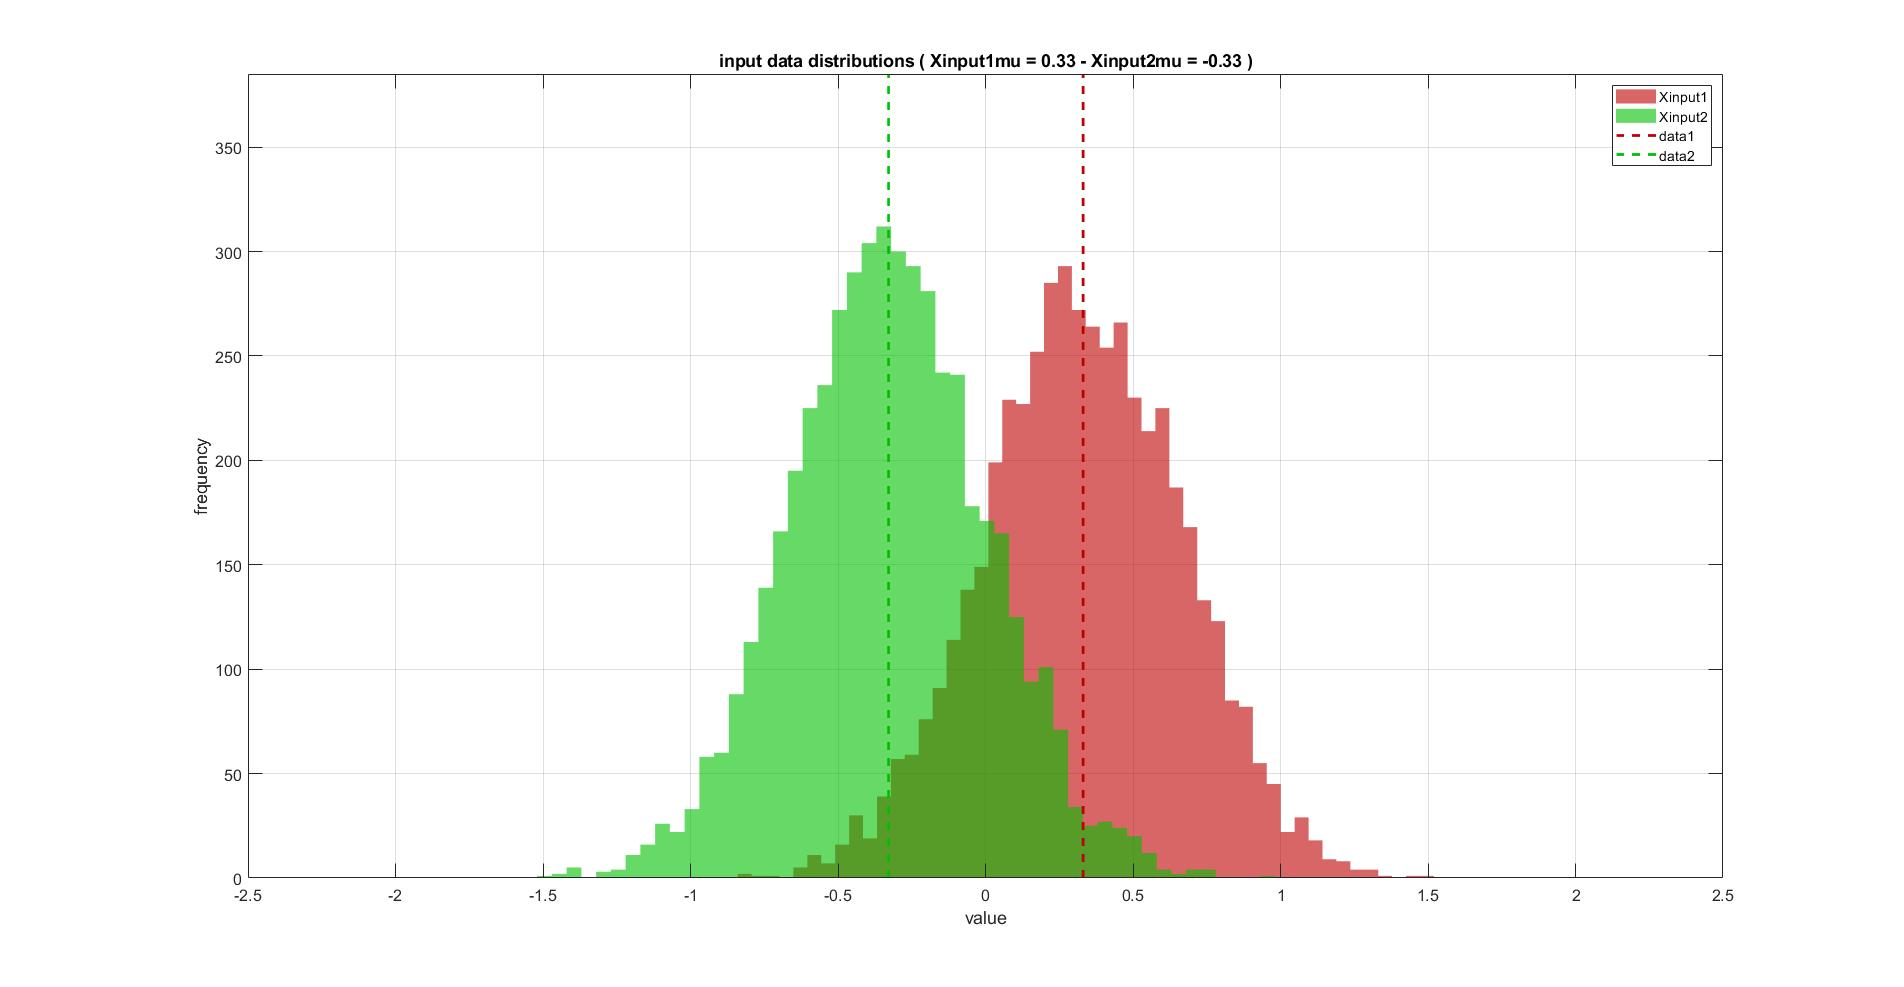
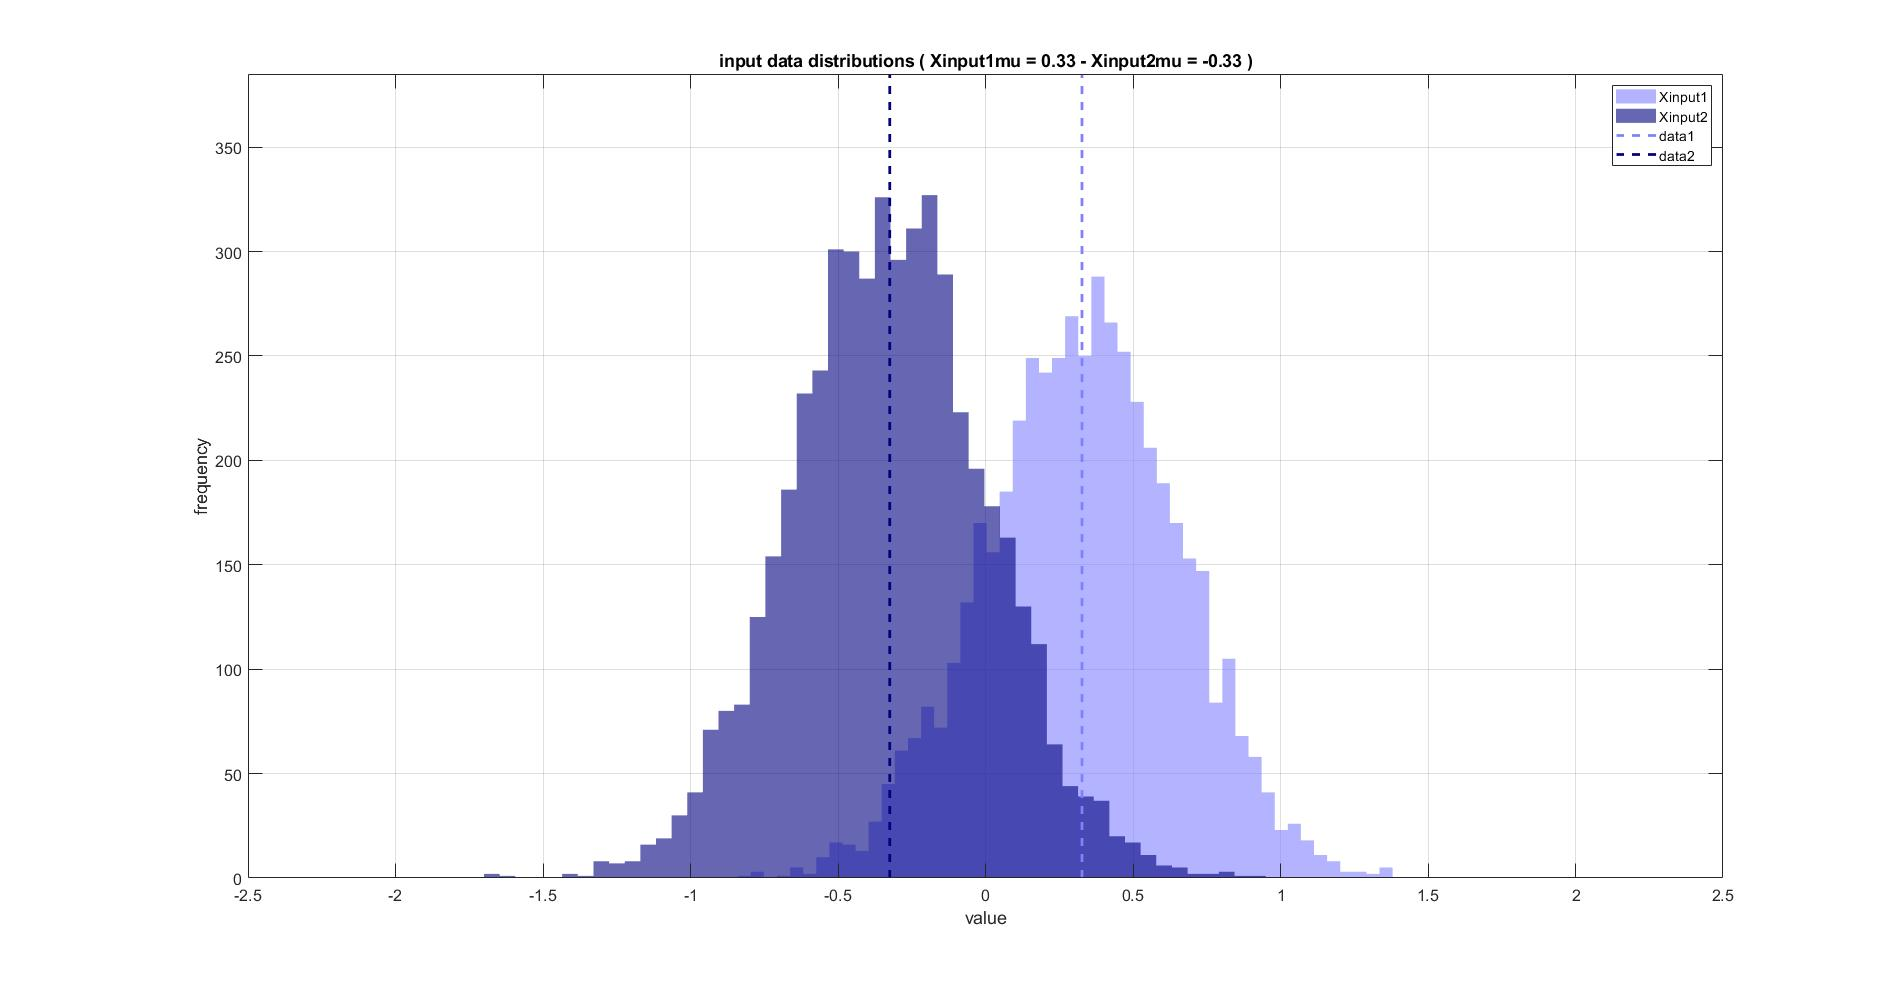
updated style of functions

Changed region(s): [[0.2789, 0.1824, 0.7437, 0.9119], [0.8367, 0.0912, 0.8676, 0.152]]

diff --git a/test_Bootstrap_t.m b/test_Bootstrap_t.m
@@ -1,16 +1,17 @@
 % \\\\\\\\\\\\\\\\\\\\\\ test_Bootstrap_t \\\\\\\\\\\\\\\\\\\\\\
-
-% TEST BOOTSTRAP-t Test the accompanying code providing a flexible parallel
+%
+% Test the accompanying code providing a flexible parallel
 % implementation of the Bootstrap-t procedure to compute confidence intervals 
 % (CI) following the procedure described by the book:
+%
 % "Tibshirani, R. J., & Efron, B. (1993).
 % An introduction to the bootstrap.
-% Monographs on statistics and applied probability, 57(1)"
+% Monographs on statistics and applied
+% probability, 57(1)"
 %
-% AUTHOR: Giulio Matteucci
-% DATE: 21/04/2023
+% Giulio Matteucci 2023
 
-%% create test dataset to test Bootstrap-t functions
+%% create test dataset to test Bootstrap-t functions ----------------------
 
 % generate normal data
 Npoints=5000;
@@ -35,10 +36,13 @@ mean_diff_output = get_mean_difference_Bootstrap_t(InputData);
 
 % plot the histograms of input data
 f1=figure('units','normalized','outerposition',[0 0 1 1]);
+% set colors
+color1=[0.5, 0.5, 1];
+color2=[0, 0, 0.5];
 % subplot(2, 1, 1);
-histogram(InputData{1},50,'EdgeAlpha',0,'FaceColor',[1,0,0].*0.75);
+histogram(InputData{1},50,'EdgeAlpha',0,'FaceColor',color1);
 hold on;
-histogram(InputData{3},50,'EdgeAlpha',0,'FaceColor',[0,1,0].*0.75);
+histogram(InputData{3},50,'EdgeAlpha',0,'FaceColor',color2);
 xlabel('value');
 ylabel('frequency');
 title(['input data distributions ( Xinput1mu = ',num2str(Xinput1_mu),' - Xinput2mu = ',num2str(Xinput2_mu),' )']);
@@ -46,8 +50,8 @@ legend('Xinput1', 'Xinput2');
 % plot the mean difference as a vertical line
 y_limits = ylim;
 y_limits = [y_limits(1),1.1*y_limits(2)];
-line([mean_diff_output{2}, mean_diff_output{2}], y_limits, 'Color', [1,0,0].*0.75, 'LineWidth', 2, 'LineStyle', '--');
-line([mean_diff_output{3}, mean_diff_output{3}], y_limits, 'Color', [0,1,0].*0.75, 'LineWidth', 2, 'LineStyle', '--');
+line([mean_diff_output{2}, mean_diff_output{2}], y_limits, 'Color', color1, 'LineWidth', 2, 'LineStyle', '--');
+line([mean_diff_output{3}, mean_diff_output{3}], y_limits, 'Color', color2, 'LineWidth', 2, 'LineStyle', '--');
 hold off;
 % display the mean difference in the command window
 disp(['Mean Difference: ', num2str(mean_diff_output{1})]);
@@ -56,7 +60,7 @@ ylim(y_limits);
 grid on;
 set(gca,'fontsize',12)
 
-%% perform Bootstrap-t results
+%% perform Bootstrap-t results --------------------------------------------
 
 % initialize output structures
 orig_estimate=cell(1,3); %#ok<*PREALL>
@@ -96,7 +100,7 @@ tic2=tic;
 % maesure elapsed time (eta)
 toc2=toc(tic2);
 
-%% inspect Bootstrap-t results
+%% inspect Bootstrap-t results --------------------------------------------
 
 % set output names
 outputnames={'mean difference','mean 1','mean 2'};
@@ -145,8 +149,19 @@ grid on;
 legend(pl,'ground truth');
 set(gca,'fontsize',12)
 
+% set tolerance for test
+tolerance = 1e-3;
+% output results of test
+if and( abs(orig_estimate_lCI{i}-new_estimate_lCI{i}) > tolerance ,  abs(orig_estimate_uCI{i}-new_estimate_uCI{i}) > tolerance )
+    % display test result
+    fprintf('Test failed - confidence intervals do not coincide within set tolerance\n');
+else
+    % display test result
+    fprintf('Test passed - confidence intervals coincide within set tolerance\n');
+end
+
 % --------------------------------------------------------------------
-% Validation (performed on MATLAB R2019b):
+% validation (performed on MATLAB R2019b):
 % Example results of a test run comparing the CI from an unpaired ttest with the
 % bootstrap-estimated CI (Npoints=5000, B=10000, N=100, sig=0.33, mu=+/-0.33)
 % with "get_boostrap_parallel_fast_t_ci_BN2p" function:
@@ -156,12 +171,4 @@ set(gca,'fontsize',12)
 % Bootstrap-t estimate: 0.66774 - true value = 0.66000
 % Bootstrap-t lCI: 0.65496 - ttest2 lCI: 0.65495
 % Bootstrap-t uCI: 0.68065 - ttest2 uCI: 0.68053
-% --------------------------------------------------------------------
-% Disclaimer:
-% This software is provided "as-is" without any warranty, express or implied.
-% The author(s) and/or contributors shall not be held liable for any damages,
-% including but not limited to, direct, indirect, incidental, consequential,
-% or other losses, resulting from the use of, or inability to use, this software.
-% By using this software, you acknowledge that you understand and agree to this disclaimer.
-% Use at your own risk.
 % --------------------------------------------------------------------

diff --git a/get_Bootstrap_t_ci_parallel.m b/get_Bootstrap_t_ci_parallel.m
@@ -1,10 +1,11 @@
 function [estimate,estimate_lCI,estimate_uCI,estimate_lSE,estimate_uSE] =...
     get_Bootstrap_t_ci_parallel(Bfunc,Binp,Bdim,Brdim,confidence,B,N,seed,printeveryn)
-
-%GET_BOOTSTRAP_T_CI_PARALLEL Perform Bootstrap-t (parallel) for the estimation of confidence intervals
+% [estimate,estimate_lCI,estimate_uCI,estimate_lSE,estimate_uSE] =...
+%     get_Bootstrap_t_ci_parallel(Bfunc,Binp,Bdim,Brdim,confidence,B,N,seed,printeveryn)
+% perform Bootstrap-t (parallel) for the estimation of confidence intervals
 % and standard error intervals of a summary statistic (any custom function Bfunc).
 %
-% INPUTS:
+% inputs:
 % Bfunc: function handle of summary statistic (any custom function Bfunc)
 % Binp: cell array, inputs for the Bfunc
 % Bdim: vector, dimensions to resample for each input in Binp
@@ -15,14 +16,14 @@ function [estimate,estimate_lCI,estimate_uCI,estimate_lSE,estimate_uSE] =...
 % seed: integer, seed for random number generator
 % printeveryn: integer, every how any bootstrap repetitions to print advancement
 %
-% OUTPUTS:
+% outputs:
 % estimate: cell array, point estimates of the summary statistic
 % estimate_lCI: cell array, lower bound of the confidence interval
 % estimate_uCI: cell array, upper bound of the confidence interval
 % estimate_lSE: cell array, lower bound of the standard error interval
 % estimate_uSE: cell array, upper bound of the standard error interval
 %
-% EXAMPLE:
+% example:
 % confidence = 0.95;
 % B = 2500;
 % N = 25;
@@ -33,8 +34,7 @@ function [estimate,estimate_lCI,estimate_uCI,estimate_lSE,estimate_uSE] =...
 % [estimate, estimate_lCI, estimate_uCI, estimate_lSE, estimate_uSE] =...
 % get_Bootstrap_t_ci_parallel(Bfunc,Binp,Bdim,Brdim,confidence,B,N,seed);
 %
-% AUTHOR: Giulio Matteucci
-% DATE: 21/04/2023
+% Giulio Matteucci 2023
 
 %% perform Bootstrap-t (parallel)
 
@@ -167,7 +167,7 @@ parfor bo_idx=1:B
     % compute bootstrap Z
     for output_idx=1:O
         Znum=local_Bout{output_idx}-local_Bout_bo{output_idx};
-        catmat = cell2matlastdim(Bout_bi(output_idx,:)');
+        catmat = cell_to_mat_last_dim(Bout_bi(output_idx,:)');
         Zdenom=nanstd(catmat,[],ndims(catmat));
         BZvals{output_idx,bo_idx}=(Znum)./(Zdenom+eps);
     end
@@ -182,8 +182,8 @@ end
 
 for output_idx=1:O
     % get confidence interval
-    catmat1 = cell2matlastdim(BZvals(output_idx,:)');
-    catmat2 = cell2matlastdim(Bout_bo(output_idx,:)');
+    catmat1 = cell_to_mat_last_dim(BZvals(output_idx,:)');
+    catmat2 = cell_to_mat_last_dim(Bout_bo(output_idx,:)');
     estimate_lCI{output_idx}=Bout{output_idx}-quantile(catmat1,1-(1-confidence)/2,ndims(catmat1)).*nanstd(catmat2,[],ndims(catmat2));
     estimate_uCI{output_idx}=Bout{output_idx}-quantile(catmat1,(1-confidence)/2,ndims(catmat1)).*nanstd(catmat2,[],ndims(catmat2));
     % get standard error interval

diff --git a/get_mean_difference_Bootstrap_t.m b/get_mean_difference_Bootstrap_t.m
@@ -1,52 +1,32 @@
 function output = get_mean_difference_Bootstrap_t(input_data)
+% output = get_mean_difference_Bootstrap_t(input_data)
+% custom wrapper function for computing the mean difference between two datasets
+% using a provided bootstrap-t implementation.
+%   input_data : cell array containing input data matrices
+%       input_data{1} - Xinput1
+%       input_data{2} - Yinput1
+%       input_data{3} - Xinput2
+%       input_data{4} - Yinput2
+%   output : cell array containing computed results matrices
+%       output{1} - mean difference between input_data{1} and input_data{3}
+%       output{2} - mean of input_data{1}
+%       output{3} - mean of input_data{3}
+%
+% Giulio Matteucci 2023
 
-%GET_MEAN_DIFFERENCE_BOOTSTRAP_T Custom wrapper function for computing the
-% mean difference between two datasets using the provided bootstrap-t
-% implementation (get_Bootstrap_t_ci_serial).
-%
-% INPUTS:
-% input_data: cell array, containing the input data matrices
-% input_data{1} - Xinput1
-% input_data{2} - Yinput1
-% input_data{3} - Xinput2
-% input_data{4} - Yinput2
-% Note: other elements of input_data are not used in this function, they are here 
-% just to illustrate the handling of extra inputs by "get_Bootstrap_t_ci" functions
-%
-% OUTPUTS:
-% output: cell array, containing the computed results matrices
-% output{1} - mean difference between input_data{1} and input_data{3}
-% output{2} - mean of input_data{1}
-% output{3} - mean of input_data{3}
-%
-% USAGE:
-% To use this function with the provided bootstrap-t implementation
-% (get_Bootstrap_t_ci_serial or get_Bootstrap_t_ci_parallel), pass an handle 
-% to it to the bustrap function, e.g. Bfunc = @get_mean_difference_Bootstrap_t
-% In order to use the code with your own custom function you can replace the outputs
-% with any other calculation over the inputs (then just make sure to
-% perform the bootstrap resemplings on the correct dimension of each input
-% matrix!)
-%
-% AUTHOR: [Your name]
-% DATE: [Current date]
+% compute the mean of input data 1
+mean1 = mean(input_data{1});
+% compute the mean of input data 2
+mean2 = mean(input_data{3});
+% compute the mean difference
+if input_data{6}
+    mean_diff = mean1 - mean2;
+else
+    mean_diff = abs(mean1 - mean2);
+end
+% store results
+output{1} = mean_diff;
+output{2} = mean1;
+output{3} = mean2;
 
-    % compute the mean of input data 1 - output 2
-    mean1 = mean(input_data{1});
-
-    % compute the mean of input data 2 - output 3
-    mean2 = mean(input_data{3});
-    
-    % compute the mean difference - output 1
-    if input_data{6}
-        mean_diff = mean1 - mean2;
-    else
-        mean_diff = abs( mean1 - mean2 );
-    end
-    
-    % store results (output 1, 2, 3)
-    output{1}=mean_diff;
-    output{2}=mean1;
-    output{3}=mean2;
-    
 end

diff --git a/get_Bootstrap_t_ci_serial.m b/get_Bootstrap_t_ci_serial.m
@@ -1,10 +1,11 @@
 function [estimate,estimate_lCI,estimate_uCI,estimate_lSE,estimate_uSE] =...
     get_Bootstrap_t_ci_serial(Bfunc,Binp,Bdim,Brdim,confidence,B,N,seed,printeveryn)
-
-%GET_BOOTSTRAP_T_CI_SERIAL Perform Bootstrap-t (serial) for the estimation of confidence intervals
+% [estimate,estimate_lCI,estimate_uCI,estimate_lSE,estimate_uSE] =...
+%     get_Bootstrap_t_ci_serial(Bfunc,Binp,Bdim,Brdim,confidence,B,N,seed,printeveryn)
+% perform Bootstrap-t (serial) for the estimation of confidence intervals
 % and standard error intervals of a summary statistic (any custom function Bfunc).
 %
-% INPUTS:
+% inputs:
 % Bfunc: function handle of summary statistic (any custom function Bfunc)
 % Binp: cell array, inputs for the Bfunc
 % Bdim: vector, dimensions to resample for each input in Binp
@@ -15,14 +16,14 @@ function [estimate,estimate_lCI,estimate_uCI,estimate_lSE,estimate_uSE] =...
 % seed: integer, seed for random number generator
 % printeveryn: integer, every how any bootstrap repetitions to print advancement
 %
-% OUTPUTS:
+% outputs:
 % estimate: cell array, point estimates of the summary statistic
 % estimate_lCI: cell array, lower bound of the confidence interval
 % estimate_uCI: cell array, upper bound of the confidence interval
 % estimate_lSE: cell array, lower bound of the standard error interval
 % estimate_uSE: cell array, upper bound of the standard error interval
 %
-% EXAMPLE:
+% example:
 % confidence = 0.95;
 % B = 2500;
 % N = 25;
@@ -33,8 +34,7 @@ function [estimate,estimate_lCI,estimate_uCI,estimate_lSE,estimate_uSE] =...
 % [estimate, estimate_lCI, estimate_uCI, estimate_lSE, estimate_uSE] =...
 % get_Bootstrap_t_ci_serial(Bfunc,Binp,Bdim,Brdim,confidence,B,N,seed);
 %
-% AUTHOR: Giulio Matteucci
-% DATE: 21/04/2023
+% Giulio Matteucci 2023
 
 %% perform Bootstrap-t (serial)
 
@@ -150,7 +150,7 @@ for bo_idx=1:B
     % compute bootstrap Z
     for output_idx=1:O
         Znum=Bout{output_idx}-Bout_bo{output_idx,bo_idx};
-        catmat = cell2matlastdim(Bout_bi(output_idx,:)');
+        catmat = cell_to_mat_last_dim(Bout_bi(output_idx,:)');
         Zdenom=nanstd(catmat,[],ndims(catmat));
         BZvals{output_idx,bo_idx}=(Znum)./(Zdenom);
     end
@@ -165,8 +165,8 @@ end
 
 for output_idx=1:O
     % get confidence interval
-    catmat1 = cell2matlastdim(BZvals(output_idx,:)');
-    catmat2 = cell2matlastdim(Bout_bo(output_idx,:)');
+    catmat1 = cell_to_mat_last_dim(BZvals(output_idx,:)');
+    catmat2 = cell_to_mat_last_dim(Bout_bo(output_idx,:)');
     estimate_lCI{output_idx}=Bout{output_idx}-quantile(catmat1,1-(1-confidence)/2,ndims(catmat1)).*std(catmat2,[],ndims(catmat2));
     estimate_uCI{output_idx}=Bout{output_idx}-quantile(catmat1,(1-confidence)/2,ndims(catmat1)).*std(catmat2,[],ndims(catmat2));
     % get standard error interval

diff --git a/cell_to_mat_last_dim.m b/cell_to_mat_last_dim.m
@@ -1,0 +1,20 @@
+function output_mat = cell_to_mat_last_dim(input_cell)
+% cell_to_mat_last_dim(input_cell)
+% convert a cell array to a matrix by concatenating along an extra dimension.
+%   input_cell : cell array containing matrices to concatenate
+%   output_mat : concatenated matrix along the last dimension
+%
+% Giulio Matteucci 2023
+
+% initialize output matrix
+output_mat = [];
+% get the number of rows in the cell array
+num_rows = size(input_cell, 1);
+% loop through each cell to concatenate matrices along the last dimension
+for i = 1:num_rows
+    current_matrix = input_cell{i};
+    num_dims = ndims(current_matrix);
+    output_mat = cat(num_dims + 1, output_mat, current_matrix);
+end
+
+end
